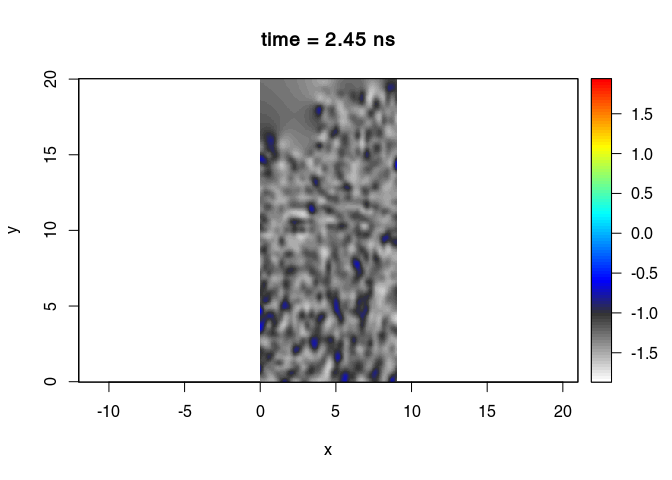
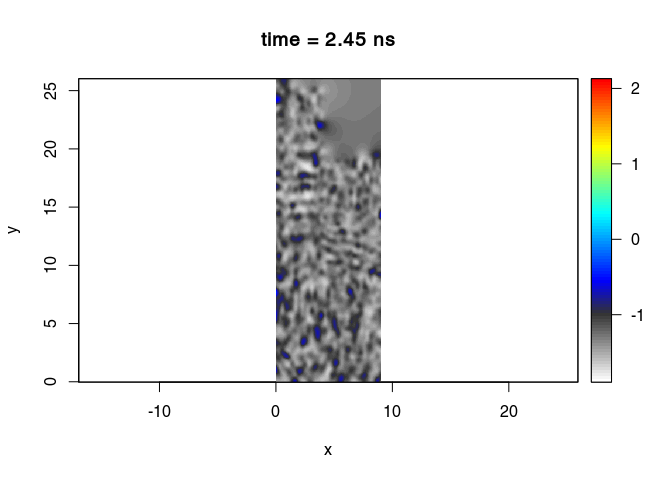
update setGridCoord explanations

diff --git a/05_RGPR_tutorial_GPR-data-time-slice-interpolation-3D.md b/05_RGPR_tutorial_GPR-data-time-slice-interpolation-3D.md
@@ -189,17 +189,17 @@ To set the grid coordinates, use the function `setGridCoord()` and assign the gr
 
 -   `xlines`: integer values corresponding to the x-lines in the `GPRsurvey` object (if there are no x-lines, no need to specify `xlines`).
 -   `xpos`: the position of the x-lines along the x-axis, same length as `xlines` (if there are no x-lines, no need to specify `xpos`).
--\[optional\] `xstart`: shift to apply along the y-position, useful if the lines do not start at the same position; same length as `xlines` (if there are no x-lines, no need to specify `xstart`).
--\[optional\] `xlength`: the length of the lines. Note that normally RGPR reads the line length from the data (if there are no x-lines, no need to specify `xlength`).
+-   `xstart`\[optional\]: shift to apply along the y-position, useful if the lines do not start at the same position; same length as `xlines` (if there are no x-lines, no need to specify `xstart`).
+-   `xlength`\[optional\]: the length of the lines. Note that normally RGPR reads the line length from the data (if there are no x-lines, no need to specify `xlength`).
 -   `ylines`: integer values corresponding to the x-lines in the `GPRsurvey` object (if there are no y-lines, no need to specify `ylines`).
 -   `ypos`: the position of the x-lines along the x-axis, same length as `ylines` (if there are no y-lines, no need to specify `ypos`).
--\[optional\] `ystart`: shift to apply along the x-position, useful if the lines do not start at the same position; same length as `ylines` (if there are no y-lines, no need to specify `ystart`).
--\[optional\] `ylength`: the length of the lines. Note that normally RGPR reads the line length from the data (if there are no y-lines, no need to specify `ylength`).
+-   `ystart`\[optional\]: shift to apply along the x-position, useful if the lines do not start at the same position; same length as `ylines` (if there are no y-lines, no need to specify `ystart`).
+-   `ylength`\[optional\]: the length of the lines. Note that normally RGPR reads the line length from the data (if there are no y-lines, no need to specify `ylength`).
 
 Note that:
 
 -   the length of `xlines`, `xpos`, `xstart` and `xlength` must be equal (except if you omit `xstart` and/or `xlength`)
--   -   the length of `ylines`, `ypos`, `ystart` and `ylength` must be equal (except if you omit `ystart` and/or `ylength`)
+-   the length of `ylines`, `ypos`, `ystart` and `ylength` must be equal (except if you omit `ystart` and/or `ylength`)
 
 ![Visualisation of the grid specification arguments](img/setGridCoord.png)
 
@@ -226,13 +226,18 @@ plot(SU, asp = TRUE, parFid = NULL)
 
 ### Example 2
 
-Imagine your data were collected on a 19 m x 25m grid: - 20 x-lines and 26 y-lines - 1 m line spacing (in both x- and y-directions) - x-length is 25 m and y-length is 19 m (assuming that RGPR did not read the correct GPR line length) - all the lines start either at x = 0 m or at y = 0 m
+Imagine your data were collected on a 19 m x 25m grid:
+
+-   20 x-lines and 26 y-lines
+-   1 m line spacing (in both x- and y-directions)
+-   x-length is 25 m and y-length is 19 m (assuming that RGPR did not read the correct GPR line length)
+-   all the lines start either at x = 0 m or at y = 0 m
 
 ``` r
 setGridCoord(SU) <- list(xlines = 1:20,
                          xpos = seq(0, by = 1, length.out = 20),
                          xstart = rep(0, 20),  # could be omitted
-                         xlength = rep(15, 20),
+                         xlength = rep(25, 20),
                          ylines =  21:46,
                          ypos = seq(0, by = 1, length.out = 26),
                          ystart = rep(0, 26),  # could be omitted
@@ -321,9 +326,9 @@ SXY
 ```
 
     ## *** Class GPRcube ***
-    ## dim:    180 x 400 x 901
-    ## res:    0.0502793296089385 m x 0.050125313283208 m x 0.05 ns
-    ## extent: 9 m x 20 m x 45 ns
+    ## dim:    180 x 520 x 901
+    ## res:    0.0502793296089385 m x 0.0500963391136802 m x 0.05 ns
+    ## extent: 9 m x 26 m x 45 ns
     ## crs:
     ## *********************
 
